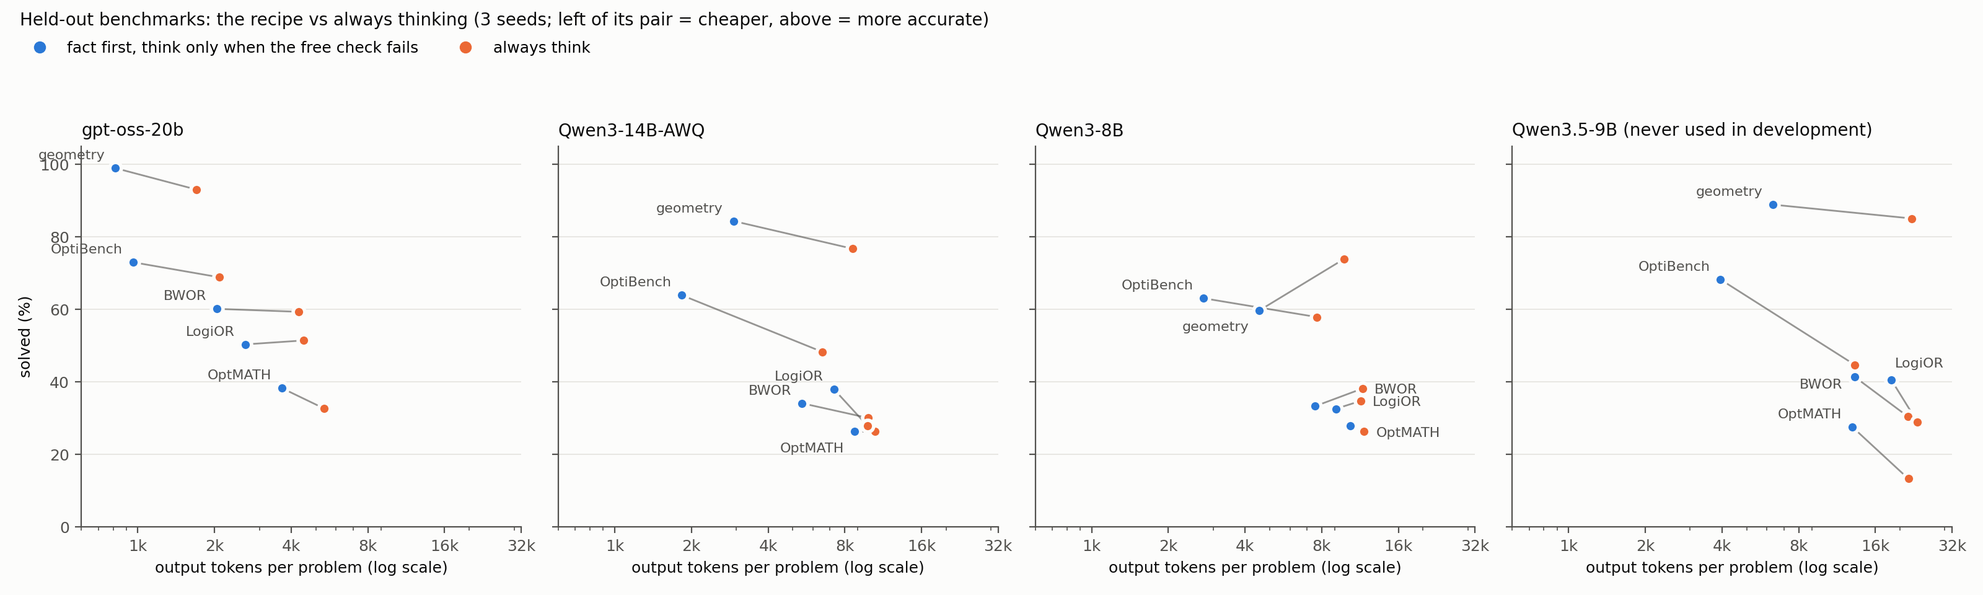
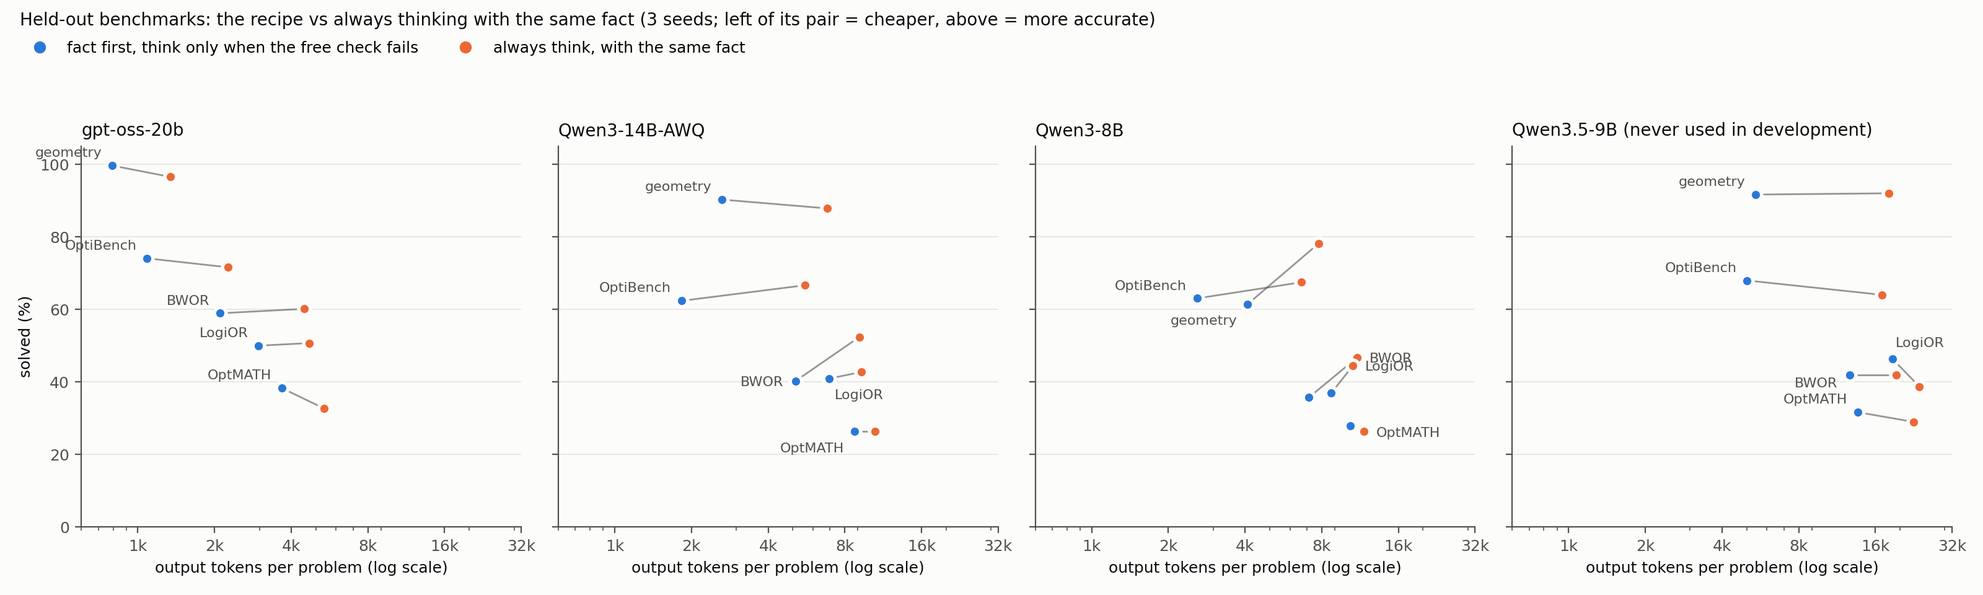
Held-out claim rebuilt against thinking given the same fact (HO-TF, HO-TF2, HO-P2): report §5.1 table and figure, abstract, conclusion, project file, proposals

diff --git a/poc/make_figure_heldout.py b/poc/make_figure_heldout.py
@@ -17,7 +17,7 @@ OPT = (("optmath", "OptMATH", "mips", "thinks"), ("optibench", "OptiBench", "for
 OPT_NEW = (("optmath", "OptMATH", "formx", "formxt"),) + OPT[1:]   # no mined example: the model has no development runs
 BLUE, ORANGE, INK, MUTED, SURFACE = "#2a78d6", "#eb6834", "#0b0b0b", "#52514e", "#fcfcfb"
 # label placement where pairs crowd: (anchor point, dx, dy, ha); default = above-left of the recipe's point
-LABEL = {("q14a", "OptMATH"): ("ff", -6, -12, "right"), ("q8b", "geometry"): ("ff", -6, -12, "right"),
+LABEL = {("q14a", "OptMATH"): ("ff", -6, -12, "right"), ("q14a", "BWOR"): ("ff", -7, -3, "right"), ("q14a", "LogiOR"): ("ff", 3, -12, "left"), ("q8b", "geometry"): ("ff", -6, -12, "right"),
          ("q8b", "BWOR"): ("think", 7, -3, "left"), ("q8b", "LogiOR"): ("think", 7, -3, "left"), ("q8b", "OptMATH"): ("think", 7, -3, "left"),
          ("q35", "BWOR"): ("ff", -7, -7, "right"), ("q35", "LogiOR"): ("ff", 2, 7, "left")}
 

diff --git a/docs/REPORT.md b/docs/REPORT.md
@@ -10,13 +10,12 @@ programs fail silently and "thinking longer" (long reasoning before answering) i
 for models that fit one 24 GB GPU (gpt-oss-20b, Qwen3-14B-AWQ, Qwen3-8B). We test a training-free recipe: write a cheap program, add the
 missing fact (a few lines of exact library usage, or a checked program for a similar problem found without labels), run a free check, and
 only when it visibly fails, try one cheap repair from the error and then think. On our development suites the recipe solves 87% of 208 problems at 2.5k output tokens, against 74%
-at 4.1k for spending thinking on the hardest-looking problems. On five benchmarks never used in development, for gpt-oss-20b and
-Qwen3-14B-AWQ the recipe ties or beats always thinking at 28–88% of its output tokens, and for Qwen3.5-9B — a model it was never
-developed with — it beats it on all five (+3.8 to +23.5 points at 28–79% of the tokens); for Qwen3-8B it wins only with the label-free
-library and loses where its free check lets many wrong programs through. The library of checked programs raises the first program in 23 of
-25 model × benchmark cells. The deciding quantity is the check's leak, not problem difficulty, and it is detectable: labelling 30
-problems of a new cell picks a policy within 0.87–0.94 points of the best on the held-out cells, and where the recipe loses it costs 0.74
-points instead of 7.8. No check we built — a second program, model-written tests or relations, another model's program — removes the
+at 4.1k for spending thinking on the hardest-looking problems. On five benchmarks never used in development, against always thinking given the same fact, the recipe ties or wins
+on all five for gpt-oss-20b and for Qwen3.5-9B — a model it was never developed with — at 30–78% of the output tokens, and on three of
+five for Qwen3-14B-AWQ; elsewhere for the Qwen3 models thinking with the fact is 4–17 points more accurate. The fact is the main lever:
+the label-free library of checked programs raises the first program in 23 of 25 model × benchmark cells, and thinking too. Whether
+thinking only on visible failures pays is decided by how often the check lets wrong programs through, and it is detectable: labelling 30
+problems of a new cell picks a policy within 0.85 points of the best over 60 held-out cells, where no fixed policy comes within 3.3. No check we built — a second program, model-written tests or relations, another model's program — removes the
 weakest model's leak, because most of it is edge-case errors that the given input does not exercise.
 
 ## 1. Introduction
@@ -108,32 +107,29 @@ on average; using fact-first as a fixed default loses 1.4.
 ## 5. Held-out tests
 
 ### 5.1 The core rule on unseen benchmarks
-> **Correction (2026-10-23, HO-TF).** In the library rows below, always thinking was run *without* the library program. Against thinking
-> given the same fact, fact-first-then-think ties or wins only for gpt-oss-20b (OptiBench +2.5 [+0.5, +4.8]; BWOR / LogiOR ties at 46–63%
-> of the tokens) and on geometry; for the Qwen models it loses 4–12 points on OptiBench / BWOR at 33–65% of the tokens. This section is
-> being rebuilt against the fact-matched thinking arm (HO-TF2 for Qwen3.5-9B and geometry is running).
+Fact first, think only on a visible failure (FF: the cheap program with the fact; thinking — given the same fact — only if it crashes,
+prints nothing or prints 'No Best Solution'; on geometry, if the metamorphic check fails) minus **always thinking with the same fact**,
+seed means, paired 95% interval over problems, and FF's output tokens as a share of always thinking's. Facts: geometry the needed helpers
++ the algorithm hint; OptiBench (a fixed third, 202 problems), BWOR, LogiOR the label-free library; OptMATH the mined usage example
+(Qwen3.5-9B: the library).
 
-Fact-first-then-think (FF: cheap program; think only if it crashes, prints nothing or prints 'No Best Solution'; on geometry: if the
-metamorphic check fails) minus always thinking, seed means, paired 95% interval over problems; FF's output tokens as a share of always
-thinking's, then input + output:
+| model | geometry (96) | OptiBench (202) | BWOR (82) | LogiOR (92) | OptMATH (100) |
+|---|---|---|---|---|---|
+| gpt-oss-20b | **+3.1** [+1.0, +5.6], 59% | **+2.5** [+0.5, +4.8], 48% | −1.2 [−6.9, +4.5], 46% | −0.7 [−5.1, +3.3], 63% | **+5.7** [+0.3, +11.3], 68% |
+| Qwen3-14B-AWQ | +2.4 [−0.3, +5.6], 39% | **−4.3** [−7.8, −0.8], 33% | **−12.2** [−20.3, −4.5], 56% | −1.8 [−6.2, +2.5], 75% | 0.0 [−4.0, +4.0], 83% |
+| Qwen3-8B | **−16.7** [−21.9, −11.5], 53% | **−4.5** [−8.1, −1.0], 39% | **−11.0** [−16.7, −5.7], 65% | **−7.6** [−11.6, −3.6], 82% | +1.7 [−1.3, +5.0], 88% |
+| Qwen3.5-9B (§5.4) | −0.3 [−3.1, +2.4], 30% | **+4.0** [+1.0, +6.9], 30% | 0.0 [−4.9, +4.9], 66% | **+7.6** [+3.6, +12.0], 78% | +2.7 [−3.3, +8.7], 60% |
 
-| benchmark (problems) | gpt-oss-20b | Qwen3-14B-AWQ | Qwen3-8B |
-|---|---|---|---|
-| OptMATH (100), mined usage example | +5.7 [+0.3, +11.0], 68% / 81% | 0.0 [−3.7, +4.0], 83% / 93% | +1.7 [−1.3, +5.0], 88% / 97% |
-| OptiBench (605), no fact | +1.8 [+0.3, +3.4], 56% / 64% | +11.0 [+8.7, +13.3], 52% / 56% | −0.4 [−2.3, +1.4], 64% / 67% |
-| OptiBench, label-free library | +4.1 [+2.1, +6.1], 46% / 67% | +15.6 [+12.9, +18.3], 28% / 37% | +5.2 [+2.6, +7.6], 36% / 43% |
-| BWOR (82), no fact | +1.2 [−4.5, +6.9], 53% / 61% | +1.2 [−4.9, +7.3], 75% / 80% | −8.1 [−13.4, −3.3], 74% / 78% |
-| LogiOR (92), no fact | −1.1 [−6.9, +4.7], 63% / 71% | −2.2 [−5.4, +1.8], 88% / 92% | −2.9 [−6.5, +0.4], 91% / 94% |
-| LogiOR, label-free library | −1.1 [−6.9, +4.0], 59% / 80% | +10.1 [+4.3, +15.9], 74% / 85% | −2.2 [−6.9, +2.5], 80% / 90% |
-| held-out geometry (96), needed helpers + hint | +5.9 [+3.5, +8.7], 48% | +7.6 [+4.5, +11.5], 34% | −14.2 [−19.8, −9.4], 46% |
+The fact is the main lever: it raises thinking as well (+3.5 to +22.6 points over thinking without it; Qwen3-14B-AWQ on OptiBench 44.1% →
+66.7%). Given the fact, thinking only on a visible failure ties or beats always thinking on every benchmark for gpt-oss-20b and Qwen3.5-9B
+at 30–78% of its tokens, and for Qwen3-14B-AWQ on geometry, LogiOR and OptMATH. For Qwen3-14B-AWQ on OptiBench / BWOR and for Qwen3-8B on
+four of five, thinking with the fact is 4–17 points more accurate: there the recipe trades accuracy for tokens (§5.2 explains why).
+Without any fact on either side the earlier comparison holds (OptiBench +1.8 / +11.0 / −0.4, BWOR +1.2 / +1.2 / −8.1, LogiOR −1.1 /
+−2.2 / −2.9 for the three development models). Counting input tokens shrinks the savings but reverses none.
 
 ![Held-out benchmarks: the recipe vs always thinking](../figs/fig23_heldout.png)
 
-*Each pair: always thinking (orange) and the recipe (blue) on one held-out benchmark, seed means; a pair pointing up-left means more accurate and cheaper. Facts: OptMATH the mined usage example, OptiBench / BWOR / LogiOR the label-free library, geometry the needed helpers + hint. Right panel: Qwen3.5-9B, never used in development (§5.4; OptMATH with the library, thinking at a 32k budget) (`poc/make_figure_heldout.py`).*
-
-For the two stronger models the recipe never loses to always thinking (wins on OptiBench and geometry, ties elsewhere) at 28–88% of its
-output tokens. For Qwen3-8B it wins only with the library on OptiBench and loses on geometry and BWOR. Counting input tokens shrinks the
-savings (the library adds 0.3–0.7k tokens per cheap prompt) but reverses none.
+*Each pair: always thinking with the same fact (orange) and the recipe (blue) on one held-out benchmark, seed means; a pair pointing up-left means more accurate and cheaper. Facts: OptMATH the mined usage example, OptiBench / BWOR / LogiOR the label-free library, geometry the needed helpers + hint. Right panel: Qwen3.5-9B, never used in development (§5.4; OptMATH with the library, thinking at a 32k budget); OptiBench on its fixed third (`poc/make_figure_heldout.py`).*
 
 ### 5.2 Why it fails: the check leaks
 Where FF loses, its free check lets wrong programs through. On BWOR and LogiOR the cheap programs are right on only 7–42% of problems and
@@ -152,13 +148,13 @@ with a second sample there) catches 32 of the 37 edge-case leaks but reaches onl
 requiring two cheap programs to agree recovers always-thinking's accuracy in every cell but costs 91–120% of its tokens. **The saving of the recipe is
 bounded by its check's leak.**
 
-On BWOR / LogiOR a stronger check helps accuracy: a solution checker the model writes from the text (it tests every stated constraint on the printed solution and recomputes the objective) catches 66–97% of running-but-wrong programs (but flags 18–65% of right ones) and turns the recipe into a significant gain over always thinking for gpt-oss-20b (+3.7, +4.3) and Qwen3-14B-AWQ on BWOR (+3.3), at 102–110% of its tokens. On OptiBench, where cheap programs are usually right, the same checker does not pay: the plain recipe with the library already beats always thinking by +5.0 / +15.0 / +7.2 points at 36–55% of its tokens, and the checker's false alarms cost what its catches gain. Nor does it carry over to OptMATH (−1.4 to −2.3 points), whose solutions contain auxiliary formulation variables that the checker must re-interpret: a check helps only where it is a genuinely independent view.
+On BWOR / LogiOR a stronger check helps accuracy: a solution checker the model writes from the text (it tests every stated constraint on the printed solution and recomputes the objective) catches 66–97% of running-but-wrong programs (but flags 18–65% of right ones) and turns the recipe into a significant gain over always thinking (without the fact, as in HO3) for gpt-oss-20b (+3.7, +4.3) and Qwen3-14B-AWQ on BWOR (+3.3), at 102–110% of its tokens. On OptiBench, where cheap programs are usually right, the same checker does not pay: the plain recipe with the library already beats always thinking by +5.0 / +15.0 / +7.2 points at 36–55% of its tokens, and the checker's false alarms cost what its catches gain. Nor does it carry over to OptMATH (−1.4 to −2.3 points), whose solutions contain auxiliary formulation variables that the checker must re-interpret: a check helps only where it is a genuinely independent view.
 
 **One cheap repair before thinking.** A cheaper first escalation helps where checks cannot save tokens: one short repair turn shown the error (no thinking) before thinking is never worse than the plain recipe and adds +0.7 to +4.0 points on OptiBench and OptMATH for all three models at equal or lower cost — where a repair runs, it is right more often than thinking on the same items. On the unseen Qwen3.5-9B it adds +2.0 to +6.2 points on all four word benchmarks at 73–88% of the plain recipe's tokens (pre-registered, HO-N3), so it is the recipe's first escalation on word problems. On BWOR / LogiOR it again helps the stronger development models but not Qwen3-8B, whose repaired programs run but are mostly wrong there (exploratory); on held-out geometry it adds little (+0.7 / +1.7 for the stronger models), because "these copies disagree" is less actionable evidence than a Python error.
 
 Agreement with gpt-oss-20b's program is a better check on BWOR / LogiOR than a self-written checker (+1.4 to +3.3 points over it for both Qwen models, half the false alarms), but again dominated by using gpt-oss-20b.
 
-**A cost model.** A perfect check bounds what any check can do: on held-out geometry it lifts Qwen3-8B only to 75.0% at 70% of always-thinking's tokens (its fact programs are wrong too often), while gpt-oss-20b and Qwen3-14B-AWQ reach 99.0% at 49% and 84.4% at 38%; on BWOR / LogiOR a perfect check saves no tokens (83–103%) but raises accuracy above always thinking (e.g. gpt-oss-20b BWOR 69.5% vs 59.3%). The recipe's token saving is capped by how often the cheap program is right; the check's leak decides how much of the possible accuracy it keeps.
+**A cost model** (against thinking without the fact, as these analyses were run). A perfect check bounds what any check can do: on held-out geometry it lifts Qwen3-8B only to 75.0% at 70% of always-thinking's tokens (its fact programs are wrong too often), while gpt-oss-20b and Qwen3-14B-AWQ reach 99.0% at 49% and 84.4% at 38%; on BWOR / LogiOR a perfect check saves no tokens (83–103%) but raises accuracy above always thinking (e.g. gpt-oss-20b BWOR 69.5% vs 59.3%). The recipe's token saving is capped by how often the cheap program is right; the check's leak decides how much of the possible accuracy it keeps.
 
 ### 5.3 Facts without a human
 The label-free library — for each problem, the program for the most similar other problem of the same benchmark that passed a strict check
@@ -176,9 +172,10 @@ writes `from ortools.constraint_solver import pywraplp`), while working code of 
 
 ### 5.4 A model the recipe was never developed with
 All rules above were fixed on gpt-oss-20b and the Qwen3 models. On Qwen3.5-9B (a newer generation, bf16 on one RTX 3090; thinking with the
-model card's sampling and a 32k budget), pre-registered before any run: fact first, think on a visible failure beats always thinking on all
-five held-out benchmarks — OptiBench 68.3% vs 44.7% (+23.5 [+20.8, +26.3]) at 30% of its tokens, BWOR +11.0, LogiOR +11.6, OptMATH +14.3,
-geometry +3.8 [+0.3, +6.9] at 28% — and still ties or beats if every budget-capped wrong thinking run is counted right. Its thinking fails
+model card's sampling and a 32k budget), pre-registered before any run: fact first, think on a visible failure beats always thinking without the fact on all
+five held-out benchmarks (OptiBench 68.3% vs 44.7%, +23.5 [+20.8, +26.3] at 30% of its tokens; +3.8 to +14.3 elsewhere), and ties or
+beats always thinking *given the same fact* on all five (OptiBench +4.0 [+1.0, +6.9], LogiOR +7.6 [+3.6, +12.0], the others ties; 30–78%
+of its tokens; HO-TF2). Its thinking fails
 by library misuse (14–25% of programs) and unfinished reasoning (6–32% at 32k): the fact, not the effort, is what it lacks. The census
 called "add a fact" on all four word benchmarks and both facts paid (+3.7 to +19.7; 8 / 8 calls right).
 
@@ -186,7 +183,7 @@ called "add a fact" on all four word benchmarks and both facts paid (+3.7 to +19
 The recipe's losses are detectable before deployment. Label 30 random problems of a new model × benchmark cell, run the four policies on
 them (the cheap program alone, fact first, fact first with two agreeing programs, always thinking) and keep the best by accuracy − 0.5 ×
 ktokens. Over the 45 held-out cells (3 models × 3 seeds × five benchmarks, each with the recipe's fact) the pick is 0.87 points from the
-cell's best on average (10 labels: 2.81; always using fact-first: 1.80; always thinking: 5.86); on the unseen Qwen3.5-9B, 0.81 over 15 cells. With repair-first as a fifth policy over all 60 held-out cells the pilot's regret is 0.94, and always repairing first (1.22 on the 48 word cells) beats always using the plain recipe (2.85), though it loses accuracy on BWOR for all three development models (HO-R). In Qwen3-8B's geometry and BWOR cells, where
+cell's best on average (10 labels: 2.81; always using fact-first: 1.80; always thinking: 5.86); on the unseen Qwen3.5-9B, 0.81 over 15 cells. With repair-first as a fifth policy over all 60 held-out cells the pilot's regret is 0.94, and always repairing first (1.22 on the 48 word cells) beats always using the plain recipe (2.85), though it loses accuracy on BWOR for all three development models (HO-R). Against the fact-matched thinking arm no fixed policy is good everywhere (best fixed regret 3.32) and the pilot matters most: 30 labels keep the regret at 0.85, choosing thinking with the fact in the 17 of 60 cells where it is best (HO-P2). In Qwen3-8B's geometry and BWOR cells, where
 the recipe loses, the 30 labels pick thinking: 0.74 points of regret instead of 7.83 (pre-registered, `PREREG_MODEL.md`, addendum HO-P). The labels are needed: estimating accuracies from how often the cheap program, a second sample and thinking agree (no labels) keeps fact-first in exactly those cells (regret 1.71 overall, 11.2 on Qwen3-8B geometry), because a model's cheap programs share their mistakes and vouch for each other (HO-L).
 
 ## 6. Baselines on the same harness
@@ -221,11 +218,12 @@ wall-clock time or CPU time of the checks.
 
 ## 9. Conclusion
 
-For computational problems on a single 24 GB GPU, the cheapest reliable way to exact answers is to give the model the missing fact first
-and pay for thinking only where a free check visibly fails — not where problems look hard. The recipe holds on unseen benchmarks for the
-stronger small models and for a model it was never developed with; on word problems one cheap repair from the error should come before
-thinking. Its limit is the check: where a model's wrong programs look right, thinking only on visible failures saves tokens by losing
-accuracy, and 30 labelled problems of a new task are enough to see that and think instead. Making checks see what the given input does not
+For computational problems on a single 24 GB GPU, the missing fact is the cheapest lever: a few lines of exact usage or a checked program
+for a similar problem, found without labels, improve both cheap programs and thinking. Paying for thinking only where a free check visibly
+fails — not where problems look hard — keeps the accuracy of always thinking with the fact at 30–78% of its tokens for gpt-oss-20b and for
+a model the recipe was never developed with (Qwen3.5-9B); on word problems one cheap repair from the error should come before thinking. Its limit is the check: where a model's wrong programs look right (the Qwen3 models on the hardest word problems, Qwen3-8B on geometry),
+thinking only on visible failures saves tokens by losing accuracy, and 30 labelled problems of a new task are enough to see that and
+think instead. Making checks see what the given input does not
 contain is the open problem.
 
 *Sources: `PROPOSAL.md`; held-out numbers `results/x3/ho*_analysis.log`, `results/x3/ho2_*_analysis.log`,

diff --git a/PROPOSAL_ko.md b/PROPOSAL_ko.md
@@ -122,7 +122,7 @@ Lean(miniF2F, 명제 244개, 8번 시도)에서는 24 GB GPU 하나에 들어가
 
 레시피는 모든 시드에서 가장 정확하면서 가장 싼 축에 듭니다. 난이도는 잘못된 신호입니다: 어려워 보이는 문제에 생각을 쓰는 것보다 검사가 실패한 곳에 쓰는 것이 낫습니다.
 
-**새 과제에는 어떤 정책?** 방법: 새 과제의 문제 30개에 정답을 달고, 정책 네 가지(값싼 프로그램 하나, 사실 먼저, 두 버전으로 사실 먼저, 항상 생각)를 돌려 토큰 벌점을 뺀 정확도가 가장 좋은 것을 고릅니다. 모델 × 과제 × 시드 63개 칸에서 "사실 먼저, 실패할 때만 생각"이 가장 좋은 고정 기본값입니다(각 칸의 최선 정책보다 평균 1.4점 손해; 항상 생각은 8.4점, 1k 토큰당 0.5점으로 계산). 새 과제의 문제 30개에 정답을 달아 그중 최선 정책을 고르면 손해가 0.6점으로 줄어듭니다(처음 쓰는 MAMO에서: 0.8–1.4점; 처음 쓰는 다른 벤치마크 다섯 개의 45칸에서: 0.87점이고, 레시피가 지는 Qwen3-8B의 기하·BWOR 칸에서는 30개 라벨이 생각을 골라 7.8점 대신 0.74점). 레시피를 만들 때 쓰지 않은 모델(Qwen3.5-9B, RTX 3090 하나)에서도 사실 먼저가 그 다섯 벤치마크 모두에서 항상 생각하기를 이기고(토큰 28–79%로 +3.8–+23.5점), 30개 라벨의 선택은 0.81점 안에 듭니다.
+**새 과제에는 어떤 정책?** 방법: 새 과제의 문제 30개에 정답을 달고, 정책 네 가지(값싼 프로그램 하나, 사실 먼저, 두 버전으로 사실 먼저, 항상 생각)를 돌려 토큰 벌점을 뺀 정확도가 가장 좋은 것을 고릅니다. 모델 × 과제 × 시드 63개 칸에서 "사실 먼저, 실패할 때만 생각"이 가장 좋은 고정 기본값입니다(각 칸의 최선 정책보다 평균 1.4점 손해; 항상 생각은 8.4점, 1k 토큰당 0.5점으로 계산). 새 과제의 문제 30개에 정답을 달아 그중 최선 정책을 고르면 손해가 0.6점으로 줄어듭니다(처음 쓰는 MAMO에서: 0.8–1.4점; 처음 쓰는 다른 벤치마크 다섯 개의 45칸에서: 0.87점이고, 레시피가 지는 Qwen3-8B의 기하·BWOR 칸에서는 30개 라벨이 생각을 골라 7.8점 대신 0.74점). 처음 쓰는 벤치마크에서는 항상 생각하기에도 같은 사실을 주어야 공정합니다(사실은 생각도 최대 +22.6점 올림): 그러면 사실 먼저는 gpt-oss-20b와 레시피를 만들 때 쓰지 않은 Qwen3.5-9B에서 다섯 벤치마크 모두 같거나 낫고(토큰 30–78%), Qwen3 모델의 OptiBench·BWOR에서는 사실을 준 생각이 4–12점 더 정확합니다; 어디서나 최선인 고정 정책은 없고(손해 3.3점 이상), 30개 라벨은 60칸에서 0.85점 안에서 고릅니다.
 
 **작은 GPU.** 사실을 주면 24 GB GPU 하나(예: RTX 3090)에 들어가는 모델이 Qwen3-32B와 같거나 낫습니다. 레시피를 쓴 최적화 묶음: gpt-oss-20b 94–97%, Qwen3-14B(4비트) 87–92%, Qwen3-32B 79–85%. 서술형 문제: 레시피를 쓴 gpt-oss-20b가 0.7k 토큰에 73.0%, 사실을 받고 항상 생각한 Qwen3-32B가 5.5k에 72.0%. 경시 수학: Qwen3-14B(4비트)가 생각 모드로 MATH-500 / AIME 97.3% / 73.3%(Qwen3-32B: 97.4% / 77.2%). 대회 기하: 예제를 틀릴 때만 낮은 노력에서 중간 노력으로 올리는 gpt-oss-20b가 11k 토큰에 54.6%(gpt-oss-120b 중간 노력: 56.8%). 14B보다 작으면 최적화 묶음은 무엇을 더해도 47% 이하이고, 기하는 4B부터 풀립니다.
 

diff --git a/PROPOSAL.md b/PROPOSAL.md
@@ -122,7 +122,7 @@ We compared ways to spend the same budget on the geometry suite (108 problems) a
 
 The recipe is both the most accurate and among the cheapest, on every seed. Difficulty is the wrong signal: spending thinking on the hardest-looking problems is worse than spending it where a check fails.
 
-**Which policy for a new task?** How it works: label 30 problems of the new task, run four policies on them (one cheap program; fact first; fact first with two versions; always think) and keep the one with the best accuracy after a token penalty. Over 63 model × task × seed cells, "fact first, think on failure" is the best fixed default (it loses 1.4 points on average to the best policy of each cell; always thinking loses 8.4, counting 0.5 points per 1k tokens); labelling 30 problems of a new task and picking the best policy on them cuts the loss to 0.6 points (on the held-out MAMO: 0.8–1.4; on 45 cells of five more held-out benchmarks: 0.87, and in Qwen3-8B's cells where the recipe loses, geometry and BWOR, the 30 labels pick thinking: 0.74 instead of 7.8). On a model the recipe was never developed with (Qwen3.5-9B, one RTX 3090), fact first beats always thinking on all five of those benchmarks (+3.8 to +23.5 points at 28–79% of its tokens), and 30 labels pick within 0.81 points.
+**Which policy for a new task?** How it works: label 30 problems of the new task, run four policies on them (one cheap program; fact first; fact first with two versions; always think) and keep the one with the best accuracy after a token penalty. Over 63 model × task × seed cells, "fact first, think on failure" is the best fixed default (it loses 1.4 points on average to the best policy of each cell; always thinking loses 8.4, counting 0.5 points per 1k tokens); labelling 30 problems of a new task and picking the best policy on them cuts the loss to 0.6 points (on the held-out MAMO: 0.8–1.4; on 45 cells of five more held-out benchmarks: 0.87, and in Qwen3-8B's cells where the recipe loses, geometry and BWOR, the 30 labels pick thinking: 0.74 instead of 7.8). Held out, always thinking must get the same fact (it helps thinking too, by up to +22.6 points): then fact first ties or beats it on all five benchmarks for gpt-oss-20b and for Qwen3.5-9B, a model the recipe was never developed with (at 30–78% of the tokens), while for the Qwen3 models on OptiBench / BWOR thinking with the fact is 4–12 points more accurate; no fixed policy is best everywhere (regret ≥ 3.3), and 30 labels pick within 0.85 points over 60 cells.
 
 **Small GPUs.** Once they get the fact, models that fit one 24 GB GPU (e.g. RTX 3090) match or beat Qwen3-32B. Optimization suite with the recipe: gpt-oss-20b 94–97%, Qwen3-14B (4-bit) 87–92%, Qwen3-32B 79–85%. Word problems: gpt-oss-20b with the recipe 73.0% at 0.7k tokens, Qwen3-32B with the fact and always thinking 72.0% at 5.5k. Competition math: Qwen3-14B (4-bit) thinking 97.3% / 73.3% on MATH-500 / AIME (Qwen3-32B: 97.4% / 77.2%). Contest geometry: gpt-oss-20b, escalating from low to medium effort when the examples fail, solves 54.6% at 11k tokens (gpt-oss-120b at medium: 56.8%). Below 14B the optimization suite stays at 47% or less whatever we add; geometry is solved from 4B up.
 

diff --git a/PROJECT.md b/PROJECT.md
@@ -19,17 +19,15 @@ reuse a checked program when the problem repeats.
 
 ## 2. Main claim and where it stands
 
-Held-out benchmarks, 3 seeds, 95% intervals over problems (full table: `docs/notes/REPORT_OUTLINE.md`).
-**Correction in progress (2026-10-23, HO-TF):** the library rows compared the recipe with the fact against thinking without it; against
-thinking with the same fact the recipe ties or wins for gpt-oss-20b and on geometry, but is a token-for-accuracy trade (−4 to −12 points)
-for the Qwen models on word problems. The bullets below are being restated once HO-TF2 finishes.
-- For gpt-oss-20b and Qwen3-14B-AWQ the recipe ties or beats always thinking on every unseen benchmark (OptMATH, OptiBench, BWOR, LogiOR,
-  four held-out geometry tasks) at 28–88% of its output tokens (37–97% counting input tokens).
-- For Qwen3-8B it wins only on OptiBench with the label-free library, and loses where its free check leaks most (geometry edge cases,
-  BWOR). The check's leak, not problem difficulty, decides where thinking should go — and 30 labelled problems of a new cell detect
-  it: a 30-label pilot loses 0.87 points on average over 45 held-out cells, and 0.74 instead of 7.8 in Qwen3-8B's losing cells.
-- On a model the recipe was never developed with (Qwen3.5-9B, pre-registered) it beats always thinking on all five held-out benchmarks
-  (+3.8 to +23.5 points at 28–79% of its tokens).
+Held-out benchmarks, 3 seeds, 95% intervals over problems; always thinking is given the same fact as the recipe (HO-TF, HO-TF2; full
+table: `docs/REPORT.md` §5.1):
+- **The fact is the main lever.** It raises the cheap program (the label-free library: 23 of 25 cells) and thinking too (+3.5 to +22.6).
+- **Thinking only on a visible failure** ties or beats always thinking with the fact on all five unseen benchmarks for gpt-oss-20b and for
+  Qwen3.5-9B — a model the recipe was never developed with — at 30–78% of the tokens, and for Qwen3-14B-AWQ on geometry, LogiOR and
+  OptMATH. For Qwen3-14B-AWQ on OptiBench / BWOR and for Qwen3-8B on four of five, thinking with the fact is 4–17 points more accurate:
+  there the recipe trades accuracy for tokens, because its free check lets wrong programs through.
+- **Which to use is detectable:** a 30-label pilot over five policies loses 0.85 points on average over 60 held-out cells, where no fixed
+  policy comes within 3.3; on word problems the first escalation is one cheap repair from the error (HO7, HO-N3, HO-R).
 - The label-free library of checked programs raises the first program in 23 of 25 model × benchmark cells (up to +34 points).
 - Where it stops: short-answer competition math (text + thinking is better; a program is useful as a second opinion) and formal proofs
   (a specialized 8B prover, not a fact).
